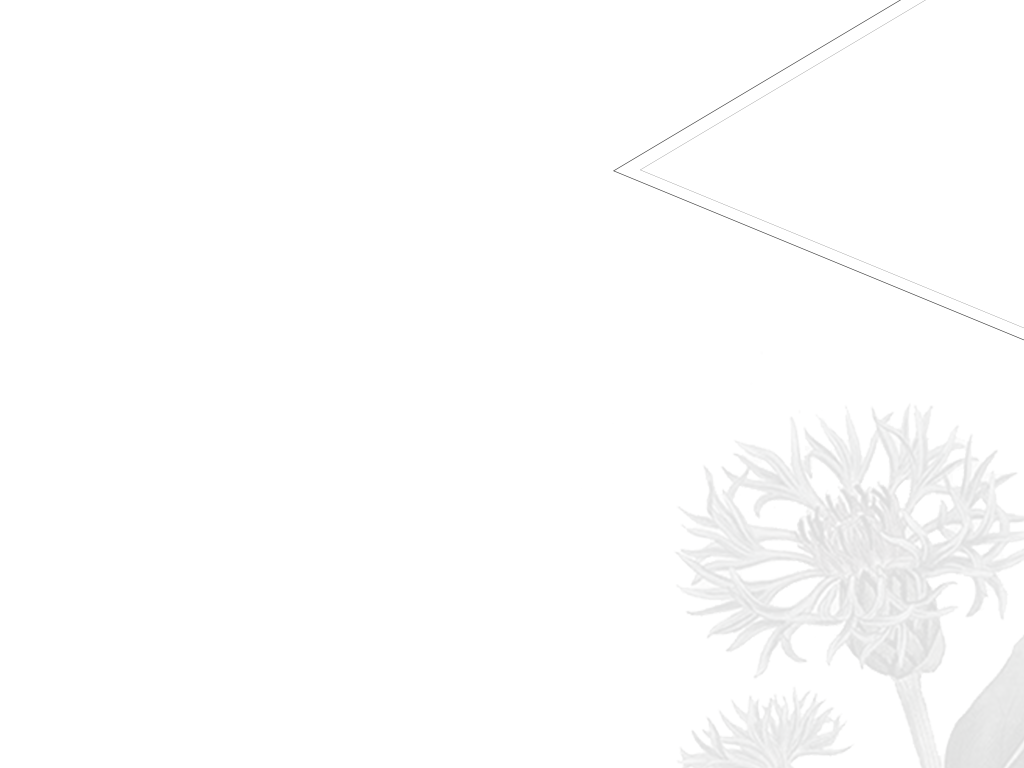
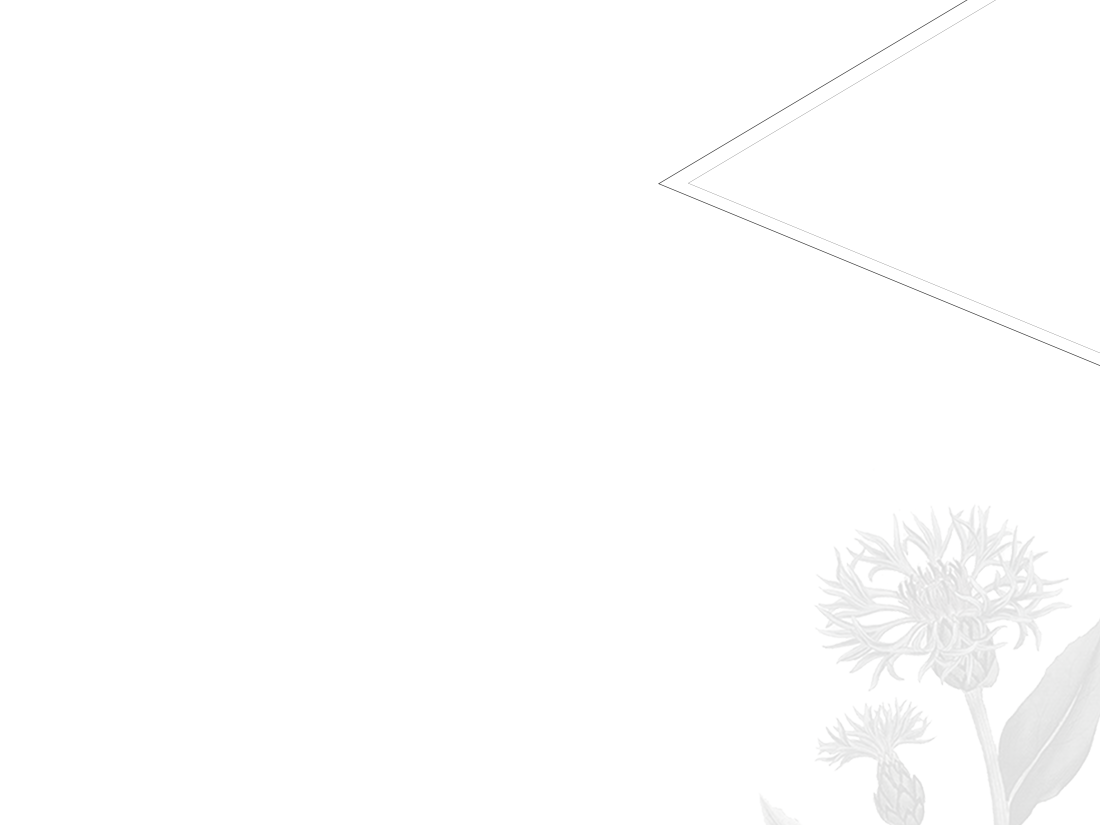
GP

diff --git a/style.css b/style.css
@@ -6,11 +6,11 @@ html, body {
 }
 
 #spotlight h1 {
-  font-size: 9em;
+  font-size: 8.5em;
   line-height: 0.85em;
-  color: #000;
+  color: #3f4f4f;
   margin: 0;
-  padding: 10px;
+  padding: 20px;
   text-align: left;
   font-weight: 300;
   text-transform: uppercase;
@@ -34,6 +34,7 @@ html, body {
   width: 700px;
   height: 600px;
   display: flex;
+  margin-left:100px;
 }
 
 .box2 {
@@ -41,12 +42,15 @@ html, body {
   height: 550px;
   display: flex;
   margin-left:100px;
+  margin-top: 50px;
 }
 
 .box3 {
   width: 500px;
-  height: 600px;
+  height: 550px;
   display: flex;
+  margin-left:100px;
+  margin-top: 50px;
 }
 
 .shadow {
@@ -122,7 +126,22 @@ html, body {
 }
 
 #spotlight {
-  background: url(bg1.png) no-repeat right center fixed;
+  background: url(bg1.png),
+    url(borderRCover.png),
+    url(borderLCover.png);
+  background-repeat: no-repeat,
+    no-repeat,
+    no-repeat;
+  background-position: right center,
+    right top,
+    left top;
+  background-attachment: fixed,
+    fixed,
+    fixed;
+  background-size: 800px,
+    auto,
+    auto;
+
 }
 
 #details {
@@ -138,7 +157,7 @@ html, body {
   background-attachment: fixed,
     fixed,
     fixed;
-  background-size: 550px,
+  background-size: 600px,
     auto,
     auto;
 }
@@ -156,7 +175,7 @@ html, body {
   background-attachment: fixed,
     fixed,
     fixed;
-  background-size: 550px,
+  background-size: 600px,
     auto,
     auto;
 }
@@ -196,15 +215,21 @@ html, body {
   .box {
     width: 100%;
     height: 350px;
+   margin-left: 0px;
+
   }
   .box2 {
     width: 100%;
     height: 500px;
     margin-left: 0px;
+    margin-top: 0px;
+
   }
   .box3 {
     width: 100%;
     height: 500px;
+    margin-left: 0px;
+    margin-top: 0px;
   }
   .white-fill {
     background-color: rgba(255, 255, 255, 0.90);

diff --git a/joshuatree.html b/joshuatree.html
@@ -10,11 +10,15 @@
     <link href="https://fonts.googleapis.com/css?family=Miss+Fajardose" rel="stylesheet">
     <link rel="stylesheet" type="text/css" href="style.css" />
     <meta name="viewport" content="width=device-width">
+ 	
 </head>
+
 
 <body>
   <div id="outer-wrapper">
       <div class="section" id="spotlight">
+      	<img src="logo.png" class="logo" alt="logo">
+
           <div class="container">
               <div data-depth="0.2" class="white-fill shadow box">
                 <h1 data-depth="0.6" class="col-md-8 col-md-push-4">
